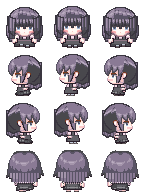
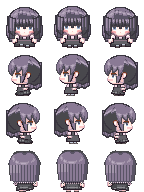
ちびキャラ：長い髪の子の後ろ向きに髪型（まっすぐ・ふんわり）を反映する
Claude-Session: https://claude.ai/code/session_017gxvkc2TW4xYgG5MuSL3N1

Changed region(s): [[0.6944, 0.8438, 0.9722, 0.9688], [0.0278, 0.8438, 0.3056, 0.9688], [0.3611, 0.8438, 0.6389, 0.9688]]

diff --git a/files.js b/files.js
@@ -2,7 +2,7 @@
 // マップなどを足したら scripts に1行足す（順番どおりに読み込む。main.js は最後）。
 // 版の番号 v は tools/stamp.py が書き換える。
 window.FILES = {
-  v: '20261127061429',
+  v: '20261127061627',
   scripts: [
     'engine/core.js',
     'engine/world.js',

diff --git a/tools/sprites/make_chibi.py b/tools/sprites/make_chibi.py
@@ -108,7 +108,7 @@ CHARS = {
     }),
     # ---- こすい：ユーザーの指定（くすんだピンクの太ももまでの長い髪、頭の上のとがった毛束、左右の黒い大きなリボン、
     # 青い目、笑った口、アイボリーのニットのタートルネックのワンピース、長い袖）。指定になかった靴はこげ茶のショートブーツ
-    'kosui_chibi': dict(BASE, girl=True, eye='tare2', long=True, ahoge=True, bows=True, turtleneck=True, sleeves=True,
+    'kosui_chibi': dict(BASE, girl=True, eye='tare2', long=True, long_style='fluffy', ahoge=True, bows=True, turtleneck=True, sleeves=True,
                         pleats=False, tie=False, hairclip=False,
                         tones=['#f6d0d5', '#EAB5BC', '#D99DA6', '#A87982', '#7a5560'], **{
         'skin1': '#FFF0E9', 'skin2': '#FFE0D5', 'skinS': '#E9B5AE', 'handO': '#c48a80', 'skinLine': '#8a5048',
@@ -119,7 +119,7 @@ CHARS = {
     }),
     # ---- かなで：ユーザーの指定（胸までのまっすぐなラベンダーグレーの髪、額を覆うまっすぐな前髪、横長のアーモンド形の目、
     # 桃色のブラウスに濃い灰色のジャンパースカート（太い肩ひも・ウエストの帯・足首までの長いスカート）、白い靴下、濃い灰色のブーツ）
-    'kanade_chibi': dict(BASE, girl=True, eye='almond', long=True, long_len=39, bangs='straight', pinafore=True, longskirt=True,
+    'kanade_chibi': dict(BASE, girl=True, eye='almond', long=True, long_len=39, long_style='straight', bangs='straight', pinafore=True, longskirt=True,
                          pleats=False, tie=False, hairclip=False,
                          tones=['#b9abc0', '#A495AB', '#8A7A95', '#5A5466', '#49484D'], **{
         'skin1': '#FFFAF6', 'skin2': '#FFF3EB', 'skinS': '#F5C3BF', 'handO': '#C7A8BA', 'skinLine': '#8a6a78',
@@ -857,15 +857,37 @@ def back_frame(c, step):
                 for i, ch in enumerate(row):
                     if ch != '.':
                         im.putpixel((CX + x0 + i, y0 + j), rb[ch] + (255,))
-        if c.get('long'):  # 太ももまでの長い後ろ髪：背中を覆う縦の束（手は見えるように肩より下は細く）
+        if c.get('long'):  # 長い髪：土台の表の髪は頭の上（20行より上）だけ使い、首から下は髪型の設定から描き直す
             L = c.get('long_len', 44)
-            for Y in range(28 + o, L + 1):
-                hw = 15 if Y < 33 + o else 13 if Y < 37 + o else 10
+            style = c.get('long_style', 'fluffy')
+            hairsym = set('HLMDE')
+            for j, row in enumerate(rows):
+                Y = top + j
+                if 20 + o <= Y <= 37 + o:   # 首から下の髪と、外にはねた毛先の輪郭を消す（肩や手は残す）
+                    for X, ch in enumerate(row):
+                        if ch in hairsym or (ch == '#' and abs(X - CX) > 12):
+                            im.putpixel((X, Y), (0, 0, 0, 0))
+
+            def hw_at(Y):  # 行ごとの髪の半分の幅（手が見えるよう、手の高さでは細く）
+                if style == 'straight':   # まっすぐ下りる
+                    return 15 if Y < 30 + o else 14 if Y < 36 + o else 11
+                return 16 if Y < 26 + o else 17 if Y < 33 + o else 15 if Y < 37 + o else 11   # ふんわり広がる
+            for Y in range(20 + o, L + 1):
+                hw = hw_at(Y)
                 for x in range(-hw, hw + 1):
                     if Y >= L - 1 and (x + Y) % 2:
                         continue  # 毛先はギザギザ
-                    edge = abs(x) == hw or Y == L
-                    ch = 'E' if edge else 'D' if x % 3 == 0 else ('L' if x < -5 and Y < 34 + o else 'M')
+                    edge = abs(x) == hw or Y == L or (Y >= L - 1 and (x + Y + 1) % 2 == 0 and Y == L - 1 and False)
+                    if edge:
+                        ch = 'E'
+                    elif x % 3 == 0:
+                        ch = 'D'   # 縦の束の境目
+                    elif x < -4 and Y < 28 + o:
+                        ch = 'L'   # 左上から光
+                    elif x > hw - 4 or Y > L - 3:
+                        ch = 'D'   # 右の端と毛先の近くは陰
+                    else:
+                        ch = 'M'
                     put(x, Y, [ch])
         if c.get('ahoge'):
             put(-4, o + 2, ['..E...E..', '.EM..EM..', '.EME.EME.', '..EMEME..'])

diff --git a/CLAUDE.md b/CLAUDE.md
@@ -11,7 +11,7 @@
 - 参考にした市販ゲームのファイル（データ・画像・音・シナリオ）はこのリポジトリに入れない
 - タイル素材（ドット絵世界）は二次配布禁止。元のPNGは入れず、`tools/encode_tileset.py` で変換した `data/tilesets/*.js` だけを入れる。タイトル画面の著作権表示（system.js の credits）は消さない
 - キャラの歩行グラフィックは、いまはちびキャラ（手本：RPGツクールMVの標準キャラの比率、約1.5頭身、1コマ48×48px）。`tools/sprites/make_chibi.py` で描き、`img/chars/haru_chibi.png`・`img/chars/yui_chibi.png` に書き出す。塗りは手本と同じくっきりしたドット絵（48×48pxに直接描く。ベタ塗り、段をつけた影と光、部品ごとに1ドットの濃い輪郭、目は1ドットずつ形を決め、白い光はほぼ使わず外側の白目と上が濃い瞳で表す。髪のかたまりは小さめで額は高め、前髪には毛束の明るい筋を1本おきに入れて凹凸を出す。女子の髪は5段（光・明・中・暗・影）で束ごとに塗り分ける（make_chibi.py の hair_shade。頭頂はつむじから放射状の束で境目に暗い線、頭の丸みに沿って束ごとに上下へずれたギザギザの天使の輪（束の真ん中だけ光の色）、前髪は束ごとに上が明るく下ほど暗く真ん中に光の筋、横・後ろの髪は縦の束で左が明るく右と下が暗い。髪型が手本と違うので、ここは手本を写さず工夫したもの）。胴は肩が細く裾へ広がる八の字で、腕も外へ開く。前髪の毛先は目の上端に接するまで下ろし、真ん中の毛束だけ短くしてそのすき間から額をのぞかせる。前髪のすぐ下の肌には影（1段目は影色、2段目は中間色）。顔の横の髪で、目の外側の端からあごの近くまで顔を縁取る（男子は細く短め）。肌は桃色がかった色（白っぽくしない）。顔は上下と左右に4段（明・中間・影・濃い影）の明暗をドット単位でつけて立体感を出す（前髪の下は中間色→目の下から頬の段がいちばん明るい→その下は中間色→あごの段は影色。左右の端は内側へ濃い影→影→中間色、頬の段は影を1段多く）。目はまるごと見せる。やや上から見下ろしつつ足先まで全身を見せる（胴→スカート／ズボン→脚1ドット（女子は肌色）→靴2ドット（上が明るく下が暗い）。左右の足は幅5ドット（輪郭＋中身3）で間に1ドットのすき間。歩くと上げた足が1ドット上がる）。目は顔の大きさを変えずに大きく、5×5ドット（上まつげは3ドット幅で2段目が内側へ1ドットずれる斜め、黒目3ドット幅で上が濃く一番下が明るい、真ん中に縦2ドットの瞳孔、白目は外側3段・内側2段の両側）。目の間は7ドットで、目の外側は顔の縁（横の髪）に接する。見下ろす角度なので、肩はあごのすぐ下の行から始まり（上の面が明るく見える）、なで肩で下へ広がる。手は丸ではなくミトン形（幅4×高さ5、外側の輪郭は茶色・内側と下は濃い線で腕と胴の境目にもなる、明るい肌は真ん中上寄りに2×2、下の段の内側が欠けてその上に親指の付け根の点）。服の輪郭も濃い色。男子はシャツ6段・ベルト1段・ズボン3段（明るめの色、股の線）。女子のスカートは下半分に、地より濃い色の縦の折り目の線（中心をはさんで4ドット間隔の2本と、裾の両端寄り）。口は省いて鼻を1ドットの点で表す（頬のいちばん明るい段の最後の行、31行目）。幅の割合は、手を含めた体が頭の約8割。その中で胴は細く、肩と手を大きめにする）。横向き（左向き、前がマイナス）は、顔と胴の形を make_chibi.py の「行ごとの前端・後端の表」（FACE_SIDE・TORSO_SIDE_* など）で決める。手本を拡大して各行の端の位置を測り、その数字をそのまま表に書く（楕円や多角形で近似しない）。横顔は鼻筋がまっすぐ縦に続いたあと鼻で1ドット前に出て（鼻筋から下は顔より前に髪の輪郭を残さない）、その下で輪郭1ドット分の落差をつけてあごへ。あごは34行で終わり（下に出っ張らせない）、前の縁は輪郭線なしで濃い肌色、あごの下だけ濃い輪郭。目は make_chibi.py の EYE_SIDE の表で描く（手本を1ドットずつ測った作り：x −9〜−4、24〜29行。茶色の上まぶたの線が目尻まで続き、黒いまつげ、前の縁は黒、黒目は2ドット幅で上の段に瞳孔、白目は白と灰色の2列、目尻は濃い影の肌、いちばん下の段は明るい黒目。女子は目尻の列が髪にかかる）。目の前端は鼻筋から肌4ドット後ろ。耳のまわりは make_chibi.py の EAR_SIDE_BOY／EAR_SIDE_GIRL の表で描く（手本を1ドットずつ測った作り：縦長のアーモンド形の耳で、上の縁は茶色、前の縁は黒、真ん中がいちばん明るい。耳の前はもみあげの髪で、顔側の縁は暗い髪色。もみあげの下の縁は耳の前から左下へ下りる黒い斜めの線（女子はあごの近くまで垂れる）。耳の下はあご・首の肌が後ろへ続き、その後ろの髪は影の色）。前髪は make_chibi.py の BANGS_SIDE の表で描く（手本を1ドットずつ測った作り：x −16〜+3、10〜26行。前の縁は黒ではなく暗い髪色で、上から前へふくらみ、いちばん前の束は26行まで垂れて顔の前を覆う。前・真ん中・耳の前の3本の束に分かれ、束の間から21〜24行で肌がのぞく。18行から下は束の境目に暗い線、光は前上と後ろ寄りの2か所。色は5段に置き換える）。明暗は前の縁が濃い影、前寄りの頬が最も明るく、耳に近い後ろほど暗い。女子の後ろ髪はあごの高さまで。胴は上が細く（36行で9〜10ドット）前の縁を斜めに下へ広げ、スカート・ズボンの広さとの落差を出す。手は胴の中ほどより後ろに4×5ドット。足元はスカート・ズボンの裾の輪郭が45行、その下は脚1段＋靴1段の2段だけ（46・47行）。靴は脚より1ドット前に出たつま先で表し、輪郭は黒ではなく靴の暗い色。立ち姿は前後の足が並び（46行 −5〜+2、47行 −6〜+2）、歩きのコマ（0・2）の足まわりは make_chibi.py の WALK_SIDE_BOY／WALK_SIDE_GIRL の表で描く（手本を1ドットずつ測った作り：男子は裾が前後の脚に分かれて間に黒い線、前の靴が大きく前に出て3段、後ろの足は脚の上に靴。女子はスカートが歩きに合わせて広がり46行まで下がって、その下は靴だけ。ハルは長ズボンなので手本の素足の部分はズボンの色）。後ろ向きは make_chibi.py の back_frame が tools/sprites/back_tables.py の表から描く（表は gen_back_tables.py で手本の後ろ向きを役割ごとの記号に書き起こしたもの。手本の中心の列（−1）をうちの中心で3列に広げて左右の幅を正面とそろえる。ハルは長ズボンなので足元の肌はズボンの色。ユイは手本のカチューシャを消して頭の上を丸いドームに削り、リボンを左上に足す）。手本を使うときは、拡大して絵そのものを見比べるのに加えて、行ごとの端の位置（前端・後端・上下の終わり）を手本とうちで並べて書き出し、1行ずつずれを確かめてから直す（ざっくりした観察で済ませない）。手順はいつも次のとおりにし、ユーザーに細かく指示されなくても全部やってから報告する：(1) `python3 -I tools/sprites/compare_ref.py 手本.png 向き コマ [行 行 列 列]` で、行ごとの左右の端を手本の男子・ハル・手本の女子・ユイで並べ、指定範囲を色の記号で書き出す（拡大画像は /tmp/compare_*.png）。(2) 部分（頭の形・前髪・目・鼻・耳・首元・肩・胴・手・裾・足）ごとに、端の位置と色の作りを手本と照らす。(3) 違う部分は、形は行ごとの端の表、中身は手本から書き起こした記号の表で描く（色はキャラごとに置き換える）。(4) 直したら同じ道具で全行を確かめ直す。基準は、左の端が手本と同じで、右の端は左右対称（手本の中心は −1、うちは 0 なので手本より右に2ドット広い）。歩きのコマのように手本が左右非対称な行は「右の端が手本より2ドット外」。(5) 歩きの3コマ・4方向とも同じことをする。手本の画像はユーザーがアップロードしたもの（作業環境の uploads）で、リポジトリには入れない。端は肌の色だけでなく、髪や輪郭も含めた「透明でない最も外側の点」で測る（肌だけ測ると、顔の前にはみ出した髪の輪郭で鼻が平らになっているのを見落とす）。「イラストを縮めた柔らかい塗り」は4頭身のための試しで、ちびキャラには使わない。3頭身・4頭身は見送り。約4頭身の版（`make_trial.py`→`trial.png`、`make_haru.py`→`haru.png`）も残してある。手本の絵は写さない（比率と描き方だけ合わせる）。直したらスクリプトを動かして画像を作り直す
-- 新しいキャラを足すときは、make_chibi.py の CHARS に1項目足すだけでよい（girl=True/False と色：髪 hair1/hair2/hairL/hairLine、女子は髪の5段 tones、瞳 iris1〜3、服 top1/top2/topLine、ズボン・スカート low1/low2、靴 shoe1/shoe2、リボン ribbon1/ribbon2）。目・顔の明暗・髪の束の塗り分け・横顔・耳・手・足・歩き・後ろ姿は、絵を貼るのではなく決まりと表から描くので、どのキャラにも自動でつく。顔がみな同じにならないよう、目の型を eye で選ぶ（無し＝ハル・ユイの目、'tare'＝控えめなたれ目、'tare2'＝しっかりたれ目（上まつげが目頭から目尻へ斜めに下がる）、'tsuri'＝つり目。make_chibi.py の EYE_TYPES に正面と横向きの表があり、型を足すのはここ）。頬の赤みは cheek=False で消せる。そのほか設定で選べるもの：long（太ももまでの長い後ろ髪。体より先に描く層で、縦の束で塗る）、ahoge（頭の上のとがった毛束）、bows（頭の左右の大きなリボンと垂れた帯。色は ribbon1/ribbon2）、mouth='open'（笑った口）、turtleneck（うね編みの高い襟）、sleeves（手の上を覆う長い袖口）、pleats=False（スカートの折り目なし）、tie=False（胸のリボンなし）、hairclip=False（ユイの髪留めなし）。long_len（長い後ろ髪の毛先の行。44＝太もも、39＝胸のあたり）、bangs='straight'（額を覆うまっすぐな前髪。両目の間に少し長い毛束）、eye='almond'（横長で縦に1段細いアーモンド形の目）、pinafore（ブラウスの上に太い肩ひも2本とウエストの帯のジャンパースカート。肩ひもとスカートは low1/low2）、longskirt（裾を1段下げた長いスカート）、legColor（脚の色。靴下など）。肌の色（skin1/skin2/skinS/handO）やまつげの色（lash）もキャラごとに上書きできる。キャラの見た目はユーザーが文章で細かく指定する方式（例：kosui_chibi）。いま選べる髪型は男子（ツンツンの短髪）と女子（ボブと顔の横の髪）の2つ。別の髪型や服の形がほしいときは、その部分だけ新しい型として足す（キャラごとに決めるのはそこだけ）。試しに mio_chibi・sota_chibi を色だけで作ってある（ゲームではまだ使っていない）。手本の全12コマを記号の表に書き起こす gen_ref_tables.py と、それを土台に描く make_from_ref.py もある（手本そのままの体・顔を土台にしたいとき用）
+- 新しいキャラを足すときは、make_chibi.py の CHARS に1項目足すだけでよい（girl=True/False と色：髪 hair1/hair2/hairL/hairLine、女子は髪の5段 tones、瞳 iris1〜3、服 top1/top2/topLine、ズボン・スカート low1/low2、靴 shoe1/shoe2、リボン ribbon1/ribbon2）。目・顔の明暗・髪の束の塗り分け・横顔・耳・手・足・歩き・後ろ姿は、絵を貼るのではなく決まりと表から描くので、どのキャラにも自動でつく。顔がみな同じにならないよう、目の型を eye で選ぶ（無し＝ハル・ユイの目、'tare'＝控えめなたれ目、'tare2'＝しっかりたれ目（上まつげが目頭から目尻へ斜めに下がる）、'tsuri'＝つり目。make_chibi.py の EYE_TYPES に正面と横向きの表があり、型を足すのはここ）。頬の赤みは cheek=False で消せる。そのほか設定で選べるもの：long（太ももまでの長い後ろ髪。体より先に描く層で、縦の束で塗る）、ahoge（頭の上のとがった毛束）、bows（頭の左右の大きなリボンと垂れた帯。色は ribbon1/ribbon2）、mouth='open'（笑った口）、turtleneck（うね編みの高い襟）、sleeves（手の上を覆う長い袖口）、pleats=False（スカートの折り目なし）、tie=False（胸のリボンなし）、hairclip=False（ユイの髪留めなし）。long_len（長い後ろ髪の毛先の行。44＝太もも、39＝胸のあたり）、long_style（'straight'＝まっすぐ下りる、'fluffy'＝肩の外までふくらむ。後ろ向きは、土台の表の髪は頭の上（20行より上）だけ使い、首から下はこの設定から描き直すので、髪型が後ろ姿にも出る。髪型の型を足したら必ず後ろ向きも確かめる）、bangs='straight'（額を覆うまっすぐな前髪。両目の間に少し長い毛束）、eye='almond'（横長で縦に1段細いアーモンド形の目）、pinafore（ブラウスの上に太い肩ひも2本とウエストの帯のジャンパースカート。肩ひもとスカートは low1/low2）、longskirt（裾を1段下げた長いスカート）、legColor（脚の色。靴下など）。肌の色（skin1/skin2/skinS/handO）やまつげの色（lash）もキャラごとに上書きできる。キャラの見た目はユーザーが文章で細かく指定する方式（例：kosui_chibi）。いま選べる髪型は男子（ツンツンの短髪）と女子（ボブと顔の横の髪）の2つ。別の髪型や服の形がほしいときは、その部分だけ新しい型として足す（キャラごとに決めるのはそこだけ）。試しに mio_chibi・sota_chibi を色だけで作ってある（ゲームではまだ使っていない）。手本の全12コマを記号の表に書き起こす gen_ref_tables.py と、それを土台に描く make_from_ref.py もある（手本そのままの体・顔を土台にしたいとき用）
 - 字体：ゲームの文字は M+ 1m（`fonts/mplus-1m-regular.ttf`、M+ FONTS は自由に使用・配布できる）。`G.font()` と css/style.css で指定している。収録外の文字（♪など）は端末のフォントになる
 - 公開は gh-pages ブランチから。更新したら、まず `python3 tools/stamp.py`（files.js の版の番号を新しくする。ブラウザが古いファイルを使い回して新旧が混ざるのを防ぐ）、コミットして `git push origin main main:gh-pages` で両方に送る。そのあと `gh api repos/nzanke/game-test/actions/runs` で「pages build and deployment」が新しいコミットで completed success になったのを確かめてから報告する。ビルドが走らないときは空のコミットを送り直す（Pages 設定のAPIは作業環境から使えない）
 - やりとりと説明は日本語で
